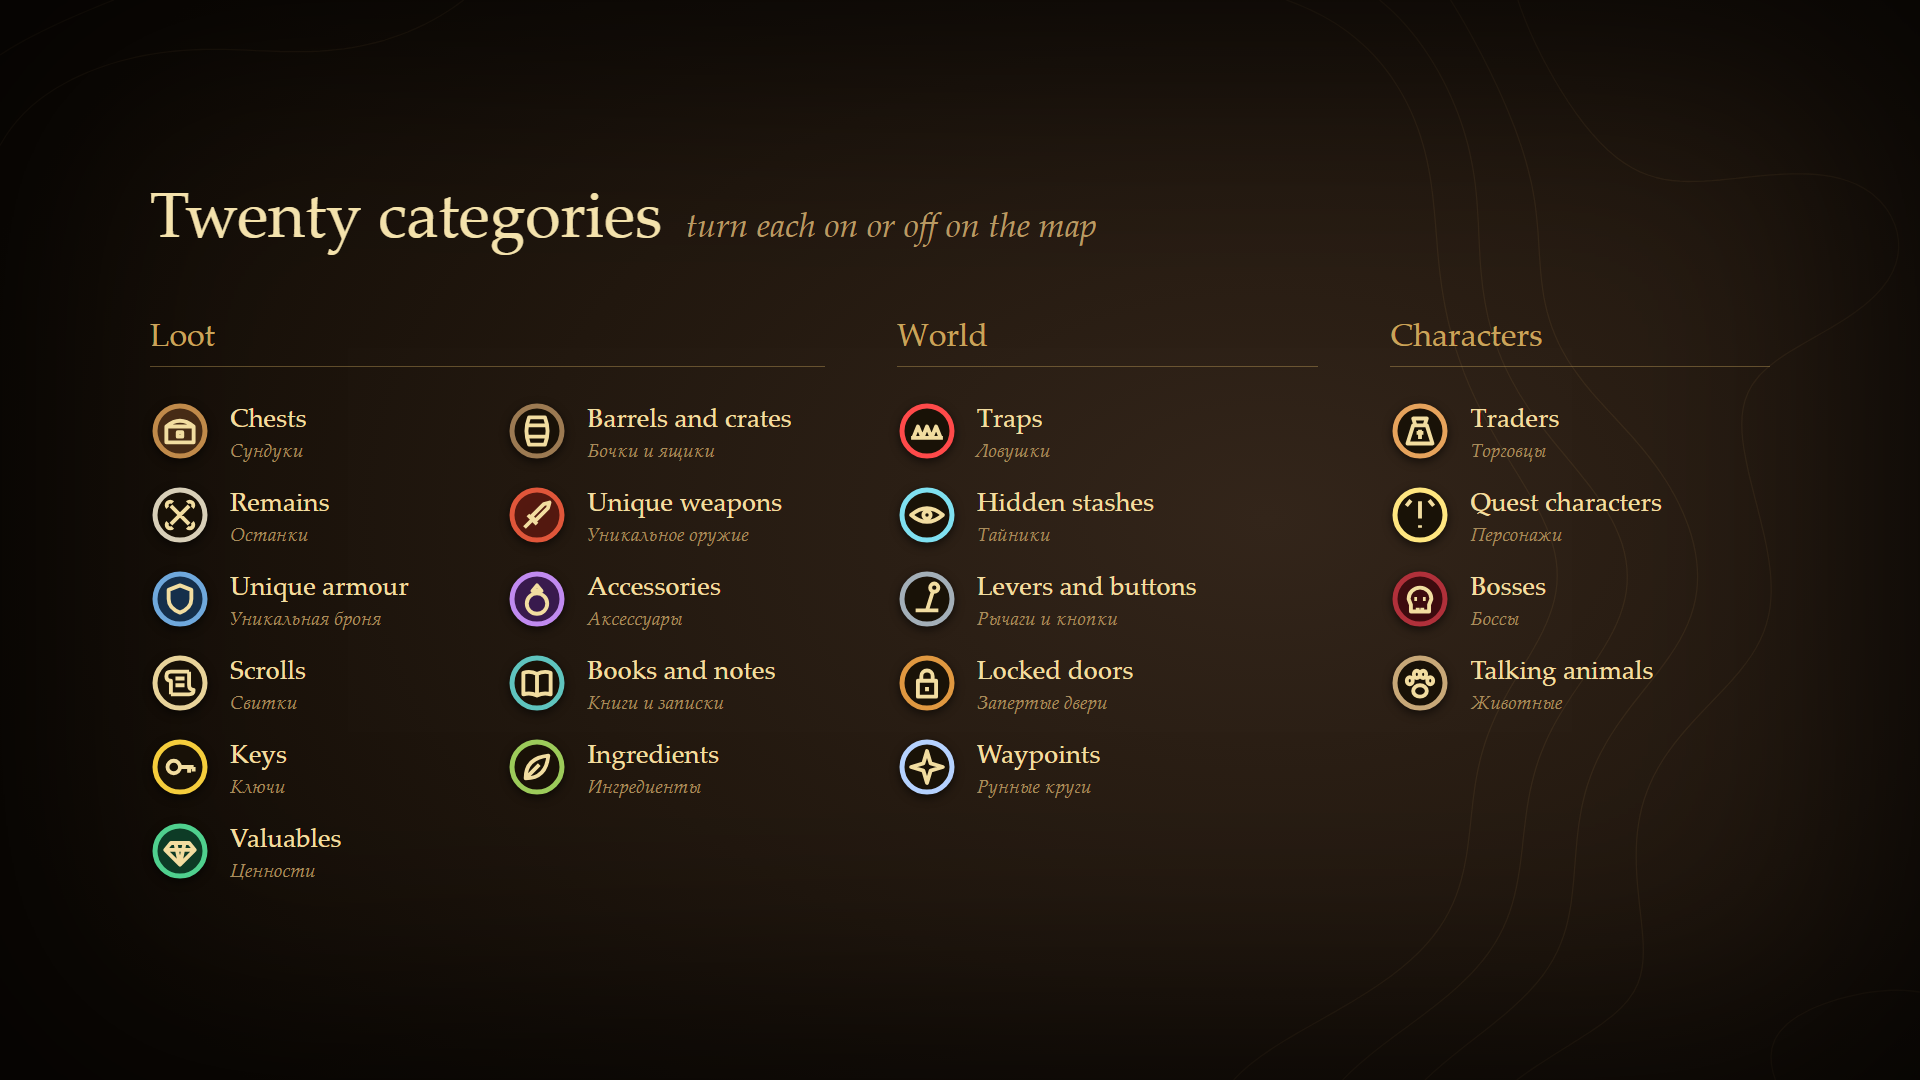
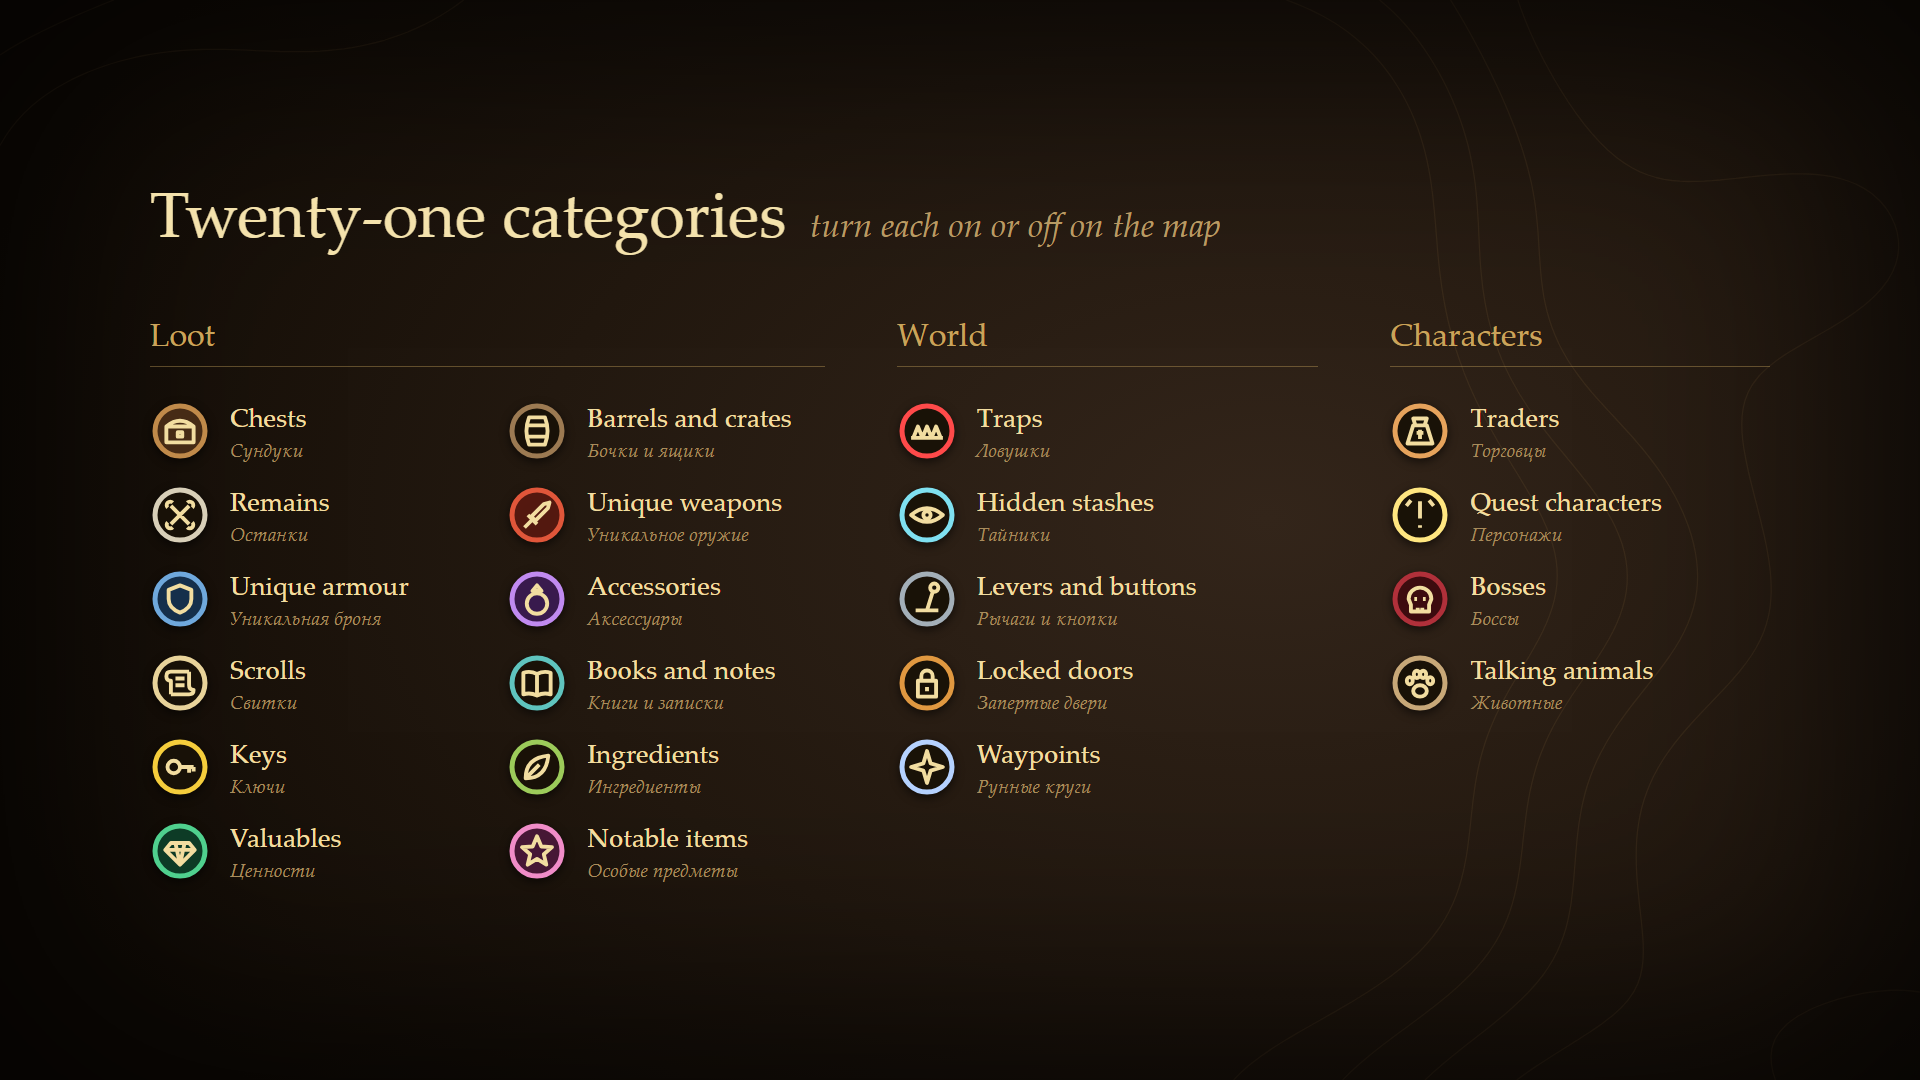
Update media for 1.2.0

Changed region(s): [[0.1875, 0.1833, 0.625, 0.2444], [0.25, 0.7639, 0.375, 0.825]]

diff --git a/tools/media.ts b/tools/media.ts
@@ -220,7 +220,7 @@ export function legendHtml(): string {
   <div class="ground"></div>
   <svg class="topo" width="1920" height="1080"><path d="${topo}" fill="none" stroke="#8a6a40" stroke-opacity="0.16" stroke-width="1.3"/></svg>
   <div class="vignette"></div>
-  <div class="wrap"><h1>Twenty categories<em>turn each on or off on the map</em></h1><div class="cols">${cols}</div></div>
+  <div class="wrap"><h1>Twenty-one categories<em>turn each on or off on the map</em></h1><div class="cols">${cols}</div></div>
   </body></html>`;
 }
 
@@ -269,16 +269,16 @@ export function headerHtml(background: string, focusY: number, side: "left" | "r
   html, body { margin: 0; padding: 0; }
   body { width: 1300px; height: 372px; overflow: hidden; background: #1b130b; ${fonts} }
   .shot { position: absolute; inset: 0; background: url("${background}") center ${focusY}% / cover no-repeat; }
-  .fade { position: absolute; inset: 0; background: linear-gradient(${left ? 90 : 270}deg, rgba(14,9,4,0.95) 0%, rgba(14,9,4,0.82) 28%, rgba(14,9,4,0.2) 55%, rgba(14,9,4,0) 70%); }
+  .fade { position: absolute; inset: 0; background: linear-gradient(${left ? 90 : 270}deg, rgba(14,9,4,0.96) 0%, rgba(14,9,4,0.9) 42%, rgba(14,9,4,0.45) 62%, rgba(14,9,4,0) 78%); }
   .vignette { position: absolute; inset: 0; box-shadow: inset 0 0 90px 20px rgba(0,0,0,0.7); }
   .title { position: absolute; ${left ? "left" : "right"}: 70px; top: 50%; transform: translateY(-50%); text-align: ${left ? "left" : "right"}; }
   .title h1 { margin: 0; font-weight: normal; font-size: 92px; line-height: 1; color: #f4e2ac; letter-spacing: -1px; text-shadow: 0 3px 20px rgba(0,0,0,0.8); }
   .title h1 span { color: #c9a45c; font-size: 52px; letter-spacing: 1px; margin-right: 14px; }
   .rule { width: 90px; height: 2px; background: #c9a45c; margin: 20px ${left ? "auto 18px 0" : "0 18px auto"}; }
-  .title p { margin: 0; font-size: 24px; color: #dcc896; font-style: italic; }
+  .title p { margin: 0; font-size: 26px; line-height: 1.35; color: #dcc896; font-style: italic; }
   </style></head><body>
   <div class="shot"></div><div class="fade"></div><div class="vignette"></div>
-  <div class="title"><h1><span>BG3</span>Atlas</h1><div class="rule"></div><p>Every chest, stash, trap and trader, on your in-game map.</p></div>
+  <div class="title"><h1><span>BG3</span>Atlas</h1><div class="rule"></div><p>Every chest, stash, trap and trader,<br>on your in-game map.</p></div>
   </body></html>`;
 }
 
